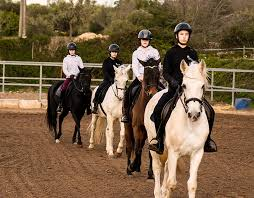
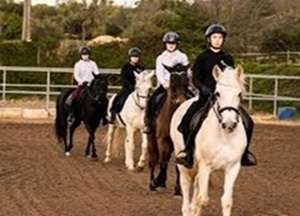
eventos

diff --git a/eventos.html b/eventos.html
@@ -63,14 +63,15 @@
                 <p class="texto_evento"> <b>Curso de trenzado y herraje</b></p>
                 <p class="texto_evento">En este curso especializado aprenderás las técnicas fundamentales para el cuidado y mantenimiento de los cascos y el arreglo estético de los caballos. 
                     Diseñado tanto para principiantes como para quienes buscan perfeccionar sus habilidades, este curso combina teoría y práctica para garantizar que adquieras 
-                    las competencias necesarias.</p>
+                    las competencias necesarias.<hr>
+                    Para apuntarse o preguntar información no dude en escribirnos nuestro correo electronico: <b>caballoyestilo@gmail.com</b> o llamenos al: <b>678912345</b></p>
             </div>
 
             <div class="evento">
                 <div class="slider">
                     <div class="slides" id="slides2">
                         <div class="slide"><img src="./rescursos/eventos/clases_equitacion.jpeg" alt=""></div>
-                        <div class="slide"> <img src="./rescursos/eventos/clases_equitacion_2.jpeg" alt=""></div>
+                        <div class="slide"> <img src="./rescursos/eventos/clases_equitacion_2.png" alt=""></div>
                     </div>
                     <button id="slide_foto" class="prev" onclick="moveSlide2(-1)">&#10094;</button>
                     <button id="slide_foto" class="next" onclick="moveSlide2(1)">&#10095;</button>
@@ -78,7 +79,8 @@
                 <p class="texto_evento"><b>Clases de Equitación</b></p>
                 <p class="texto_evento">Descubre el fascinante mundo de la equitación con nuestras clases diseñadas para todos los niveles, 
                     desde principiantes hasta jinetes avanzados. Bajo la guía de instructores expertos, aprenderás las técnicas esenciales para montar 
-                    a caballo con confianza, mejorar tu postura y disfrutar de una conexión única con estos nobles animales.</p>
+                    a caballo con confianza, mejorar tu postura y disfrutar de una conexión única con estos nobles animales. <hr>
+                    Para apuntarse o preguntar información no dude en escribirnos nuestro correo electronico: <b>caballoyestilo@gmail.com</b> o llamenos al: <b>678912345</b></p>
                 
             </div>
 
@@ -94,8 +96,8 @@
                 </div>
                 <p class="texto_evento"><b>Ruta a caballo a traves de sierra morena</b></p>
                 <p class="texto_evento">¡Descubre la magia de Sierra Morena desde una perspectiva única! Únete a nuestra ruta a caballo y vive una experiencia inolvidable 
-                    mientras recorres paisajes espectaculares, te conectas con la naturaleza y disfrutas de la tranquilidad que solo este entorno 
-                    puede ofrecer.</p>
+                    mientras recorres paisajes espectaculares, te conectas con la naturaleza y disfrutas de la tranquilidad que solo este entorno puede ofrecer. <hr>
+                    Para apuntarse o preguntar información no dude en escribirnos nuestro correo electronico: <b>caballoyestilo@gmail.com</b> o llamenos al: <b>678912345</b></p>
             </div>
         </div>
     </section>

diff --git a/eventos.css b/eventos.css
@@ -16,13 +16,25 @@
 }
 
 #eventos{
+    margin-top: 10px;
     display: flex;
     justify-content: space-around;
     
 }
 .evento{
+    width: 401px;
+    height: 560px;
+    margin-left: 20px;
+    margin-right: 20px;
     border: 2px solid #7a7676;
-    background-color: wheat;
+    background-color: rgb(242, 228, 203);
+    border-radius:22px;
+}
+
+.texto_evento{
+    margin-left: 8px;
+    margin-bottom: 8px;
+    font-family: "Coming Soon", cursive;
 }
 
 .slider {
@@ -35,6 +47,7 @@
     display: flex;
     align-items: center;
     justify-content: center;
+    margin-top: 5px;
     margin-bottom: 10px;
     margin-left: 35px;
 }
@@ -56,8 +69,8 @@
 .slide img {
     display: block;
     border-radius: 10px;
-    max-width: 100%; /* Ajusta el ancho máximo al contenedor */
-    height: auto; /* Mantén la proporción */
+    max-width: 100%;
+    height: auto; 
 }
 
 
@@ -87,12 +100,8 @@
     right: 10px;
 }
 
-.texto_evento{
-    margin-left: 8px;
-    font-family: "Coming Soon", cursive;
-}
-
 footer {
+    margin-top: 50px;
     display: flex;
     background-image: url("./rescursos/footer.png");
     font-weight: 700;
